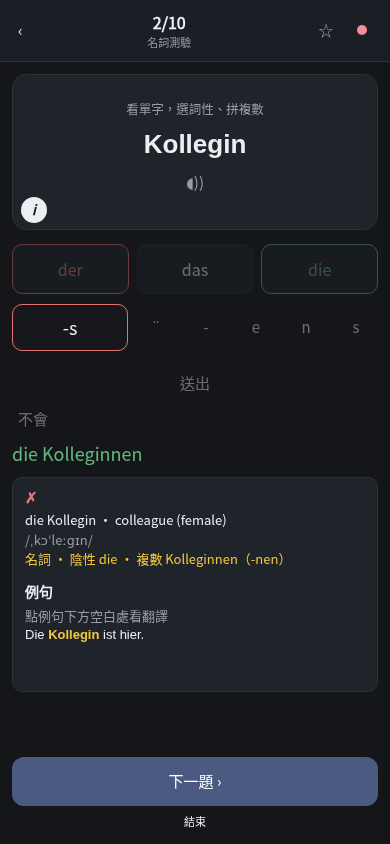
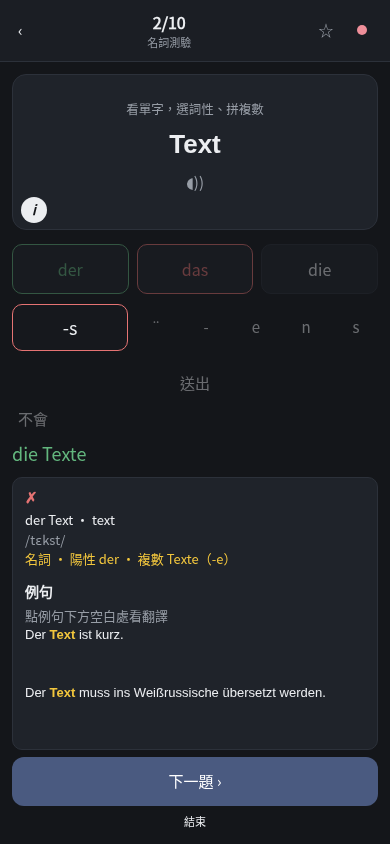
v14.36 hotfix: noun quiz feedback uses plural article die (was der/das/die singular, e.g. 'der Tage'); accepted variant echoes the assembled form (die Euros); remove Tag/Gast/Star plural-variant acceptance - Tags/Gasten/Stare belong to other lexemes/senses per de.wiktionary (computing tag, sailor sl

diff --git a/tools/var-test.js b/tools/var-test.js
@@ -1,0 +1,33 @@
+// node tools/var-test.js <url> — v14.36 hotfix proof: Tag/Gast/Star variants REJECTED with die-article canonical feedback; Euro +s ACCEPTED echoing die Euros
+const p=require('puppeteer-core');const sleep=ms=>new Promise(r=>setTimeout(r,ms));
+(async()=>{const u=process.argv[2];
+const CASES={Tag:{g:'der',seq:['s'],ok:false,fb:'die Tage'},Gast:{g:'der',seq:['e','n'],ok:false,fb:'die Gäste'},Star:{g:'der',seq:['e'],ok:false,fb:'die Stars'},Euro:{g:'der',seq:['s'],ok:true,fb:'die Euros'}};
+const b=await p.launch({executablePath:'/usr/bin/google-chrome',args:['--no-sandbox'],headless:'new'});
+const pg=await b.newPage();await pg.setViewport({width:390,height:844,isMobile:true,hasTouch:true});
+let errs=0;pg.on('pageerror',x=>{errs++;console.log('ERR',x.message)});
+const ok=(n,c)=>console.log(c?'PASS':'FAIL',n);
+await pg.goto(u+'#/');await pg.evaluate(()=>{localStorage.clear();localStorage.setItem('mmv:vocabulary.extras.v1',JSON.stringify({'de-255':{star:true},'de-342':{star:true},'de-379':{star:true},'de-387':{star:true}}))});await pg.reload();await sleep(900);
+await pg.evaluate(()=>{const x=[...document.querySelectorAll('.lang-switch')];x.length&&x[0].click()});await sleep(400);
+await pg.goto(u+'#/quiz');await pg.reload();await sleep(800);
+await pg.evaluate(()=>{const x=[...document.querySelectorAll('.mode-tiles button')].find(x=>x.innerText.includes('名詞測驗'));x.click()});await sleep(200);
+await pg.evaluate(()=>{const lab=[...document.querySelectorAll('label.check-row')].find(x=>x.innerText.includes('只選加入書籤'));lab&&lab.querySelector('input').click()});await sleep(300);
+const cnt=await pg.evaluate(()=>{const m=document.body.innerText.match(/範圍內的單字：\s*(\d+)/);return m?Number(m[1]):-1});
+ok('bookmark-scoped pool == 4 (got '+cnt+')',cnt===4);
+await pg.evaluate(()=>{const x=[...document.querySelectorAll('button')].find(x=>x.innerText.trim()==='開始');x.click()});await sleep(600);
+let tested=[];
+for(let qi=0;qi<4;qi++){
+  const stem=await pg.evaluate(()=>document.querySelector('.quiz-prompt h1')?.innerText.trim());
+  const c=CASES[stem];if(!c){console.log('FAIL unexpected stem',stem);break}
+  await pg.evaluate(g=>{[...document.querySelectorAll('.gender-row button')].find(x=>x.innerText.trim()===g).click()},c.g);await sleep(120);
+  for(const blk of c.seq){await pg.evaluate(b=>{const x=[...document.querySelectorAll('.pl-block')].find(x=>x.innerText.trim()===b);x&&x.click()},blk);await sleep(60)}
+  await pg.evaluate(()=>{const x=[...document.querySelectorAll('button')].find(x=>x.innerText.trim()==='送出');x.click()});await sleep(350);
+  const state=await pg.evaluate(()=>document.querySelector('.pl-answer.sp-ok')?'ok':(document.querySelector('.pl-answer.sp-bad')?'bad':'?'));
+  const fb=await pg.evaluate(()=>document.querySelector('.spell-answer')?.innerText.trim()||'');
+  ok(stem+' +'+c.seq.join('+')+' '+(c.ok?'accepted':'rejected')+' (state='+state+')',state===(c.ok?'ok':'bad'));
+  ok(stem+' feedback == "'+c.fb+'" (got "'+fb+'")',fb===c.fb);
+  await pg.screenshot({path:'/downloads/noun-hotfix-'+stem.toLowerCase()+'.png'});
+  tested.push(stem);
+  await pg.evaluate(()=>{const x=[...document.querySelectorAll('button.next-btn')];x.length&&x[0].click()});await sleep(350);
+}
+console.log('tested:',tested.join(','),'pageerrors',errs);
+await b.close()})();

diff --git a/index.html b/index.html
@@ -73579,8 +73579,16 @@ Error generating stack: ` +
   } catch {}
   var _1 = (e) => e.contentType,
     L1 = (e) => (_1(e) === "phrase" ? "\u7247\u8A9E" : "\u55AE\u5B57"),
-    O1 = "v14.35 1028-1941",
+    O1 = "v14.36 1028-1953",
     R1 = [
+      {
+        v: "v14.36",
+        d: "10/28",
+        items: [
+          "修正名詞測驗回饋：複數名詞誤用單數冠詞（例如顯示 der Tage），現在一律以複數冠詞 die 顯示；答對時顯示的複數形與你實際拼出的字尾一致。",
+          "移除 Tag、Gast、Star 三個複數變體接受：向 de.wiktionary 查證後確認 Tags／Gasten／Stare 屬於其他詞義（電腦標籤、船員用語、鳥名），不是這些單字在教材詞義下的複數；Euro 保留 Euro／Euros 雙複數（同一詞位列有兩種複數）。",
+        ],
+      },
       {
         v: "v14.35",
         d: "10/28",
@@ -74129,10 +74137,13 @@ Error generating stack: ` +
       return null;
     },
     NQVAR = {
-      "de-255": [["e"], ["s"]],
       "de-342": [["-"], ["s"]],
-      "de-379": [["\u00a8", "e"], ["e", "n"]],
-      "de-387": [["s"], ["e"]],
+    },
+    nqsurf = (q, seq) => {
+      let u = seq.includes("\u00a8"),
+        sfx = seq.filter((x) => x !== "\u00a8" && x !== "-").join(""),
+        a = { a: "\u00e4", o: "\u00f6", u: "\u00fc", A: "\u00c4", O: "\u00d6", U: "\u00dc" };
+      return (u ? q.stem.replace(/[aouAOU]/, (d) => a[d]) : q.stem) + sfx;
     },
     wm = {
       "jp-005": "n5",
@@ -80434,7 +80445,8 @@ Error generating stack: ` +
                   s.default.createElement(
                     "div",
                     { className: "spell-answer" },
-                    nq.gender + " " + nq.plural,
+                    "die " +
+                      (h[h.length - 1]?.correct ? nqsurf(nq, ze) : nq.plural),
                   ),
               ),
             e === "cards" &&

diff --git a/tools/noun-test.js b/tools/noun-test.js
@@ -43,7 +43,7 @@ const rest=q1.seq.slice(1);
 for(const b of rest){await pg.evaluate(b=>{[...document.querySelectorAll('.pl-block')].find(x=>x.innerText.trim()===b).click()},b);await sleep(80)}
 await pg.evaluate(()=>{const x=[...document.querySelectorAll('button')].find(x=>x.innerText.trim()==='送出');x.click()});await sleep(300);
 ok('correct answer ok state',await pg.evaluate(()=>!!document.querySelector('.pl-answer.sp-ok')));
-ok('feedback shows full form',await pg.evaluate((full)=>document.body.innerText.includes(full),q1.gender+' '+q1.plural));
+ok('feedback shows full form',await pg.evaluate((full)=>document.body.innerText.includes(full),'die '+q1.plural));
 ok('no auto-advance (mastery off)',await pg.evaluate(s=>document.querySelector('.quiz-prompt h1').innerText.trim()===s,q1.stem));
 await shot('noun-correct');
 await pg.evaluate(()=>{const x=[...document.querySelectorAll('button.next-btn')];x.length&&x[0].click()});await sleep(400);
@@ -51,7 +51,7 @@ await pg.evaluate(()=>{const x=[...document.querySelectorAll('button.next-btn')]
 let q2=await answer(false);
 await pg.evaluate(()=>{const x=[...document.querySelectorAll('button')].find(x=>x.innerText.trim()==='送出');x.click()});await sleep(300);
 ok('wrong answer bad state',await pg.evaluate(()=>!!document.querySelector('.pl-answer.sp-bad')));
-ok('wrong shows correction',await pg.evaluate((full)=>document.body.innerText.includes(full),q2.gender+' '+q2.plural));
+ok('wrong shows correction',await pg.evaluate((full)=>document.body.innerText.includes(full),'die '+q2.plural));
 ok('wrong gender marked',await pg.evaluate(()=>!!document.querySelector('.gender-row button.correct-option')&&!!document.querySelector('.gender-row button.wrong-option')));
 await shot('noun-wrong');
 await pg.evaluate(()=>{const x=[...document.querySelectorAll('button.next-btn')];x.length&&x[0].click()});await sleep(400);

diff --git a/src/app.js b/src/app.js
@@ -11106,6 +11106,14 @@ Error generating stack: ` +
     O1 = "__BUILD__",
     R1 = [
       {
+        v: "v14.36",
+        d: "10/28",
+        items: [
+          "修正名詞測驗回饋：複數名詞誤用單數冠詞（例如顯示 der Tage），現在一律以複數冠詞 die 顯示；答對時顯示的複數形與你實際拼出的字尾一致。",
+          "移除 Tag、Gast、Star 三個複數變體接受：向 de.wiktionary 查證後確認 Tags／Gasten／Stare 屬於其他詞義（電腦標籤、船員用語、鳥名），不是這些單字在教材詞義下的複數；Euro 保留 Euro／Euros 雙複數（同一詞位列有兩種複數）。",
+        ],
+      },
+      {
         v: "v14.35",
         d: "10/28",
         items: [
@@ -11653,10 +11661,13 @@ Error generating stack: ` +
       return null;
     },
     NQVAR = {
-      "de-255": [["e"], ["s"]],
       "de-342": [["-"], ["s"]],
-      "de-379": [["\u00a8", "e"], ["e", "n"]],
-      "de-387": [["s"], ["e"]],
+    },
+    nqsurf = (q, seq) => {
+      let u = seq.includes("\u00a8"),
+        sfx = seq.filter((x) => x !== "\u00a8" && x !== "-").join(""),
+        a = { a: "\u00e4", o: "\u00f6", u: "\u00fc", A: "\u00c4", O: "\u00d6", U: "\u00dc" };
+      return (u ? q.stem.replace(/[aouAOU]/, (d) => a[d]) : q.stem) + sfx;
     },
     wm = {
       "jp-005": "n5",
@@ -17958,7 +17969,8 @@ Error generating stack: ` +
                   s.default.createElement(
                     "div",
                     { className: "spell-answer" },
-                    nq.gender + " " + nq.plural,
+                    "die " +
+                      (h[h.length - 1]?.correct ? nqsurf(nq, ze) : nq.plural),
                   ),
               ),
             e === "cards" &&
